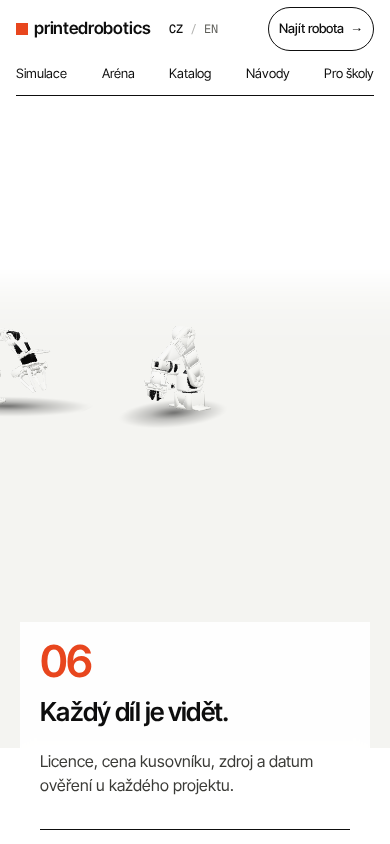
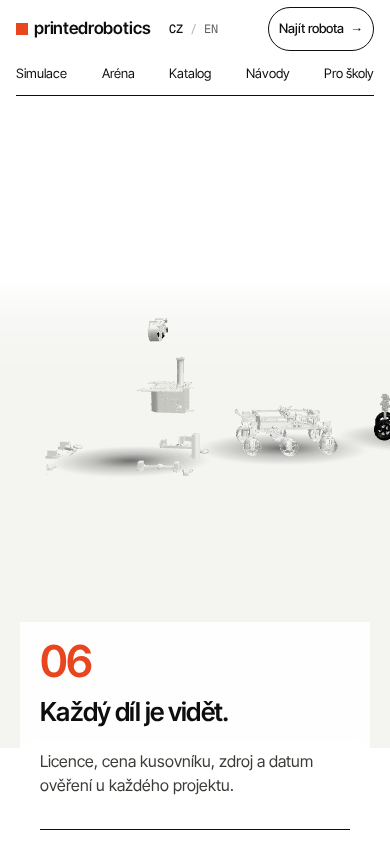
3d flythrough: crisp hard-surface look (creased normals, edges, shadows), tighter framing, phone explode fit, drop dead CSS

diff --git a/3d/fly.js b/3d/fly.js
@@ -2,6 +2,7 @@
 import * as THREE from 'three';
 import {GLTFLoader} from 'three/addons/loaders/GLTFLoader.js';
 import {MeshoptDecoder} from 'three/addons/libs/meshopt_decoder.module.js';
+import {toCreasedNormals, mergeVertices} from 'three/addons/utils/BufferGeometryUtils.js';
 import {RoomEnvironment} from 'three/addons/environments/RoomEnvironment.js';
 
 const Q = new URLSearchParams(location.search);
@@ -26,13 +27,20 @@ r.toneMapping = THREE.NeutralToneMapping; r.toneMappingExposure = 1.0;
 const s = new THREE.Scene();
 s.fog = new THREE.Fog(0xffffff, 9, 30);
 s.environment = new THREE.PMREMGenerator(r).fromScene(new RoomEnvironment(), .04).texture;
-s.environmentIntensity = .55;
-s.add(new THREE.HemisphereLight(0xffffff, 0xd9d9d3, .9));
-const key = new THREE.DirectionalLight(0xffffff, 1.5); key.position.set(4, 9, 6); s.add(key);
-const fill = new THREE.DirectionalLight(0xe8eeff, .5); fill.position.set(-6, 3, -4); s.add(fill);
+s.environmentIntensity = .38;
+s.add(new THREE.HemisphereLight(0xffffff, 0xd9d9d3, .35));
+const key = new THREE.DirectionalLight(0xffffff, 2.6); key.position.set(4, 9, 6); s.add(key, key.target);
+const SHADOWS = !mobile();
+if (SHADOWS) {
+  r.shadowMap.enabled = true; r.shadowMap.type = THREE.PCFSoftShadowMap; key.castShadow = true;
+  key.shadow.mapSize.set(2048, 2048); key.shadow.bias = -.0004; key.shadow.normalBias = .02;
+  Object.assign(key.shadow.camera, {left: -7, right: 7, top: 7, bottom: -7, near: .5, far: 30});
+}
+const fill = new THREE.DirectionalLight(0xe8eeff, .35); fill.position.set(-6, 3, -4); s.add(fill);
 const floor = new THREE.Mesh(new THREE.PlaneGeometry(400, 400),
   new THREE.MeshBasicMaterial({color: 0xf4f4f1, toneMapped: false}));
 floor.rotation.x = -Math.PI / 2; s.add(floor);
+if (SHADOWS) { const sf = new THREE.Mesh(new THREE.PlaneGeometry(400, 400), new THREE.ShadowMaterial({opacity: .16})); sf.rotation.x = -Math.PI / 2; sf.position.y = .001; sf.receiveShadow = true; s.add(sf); }
 // soft contact shadow texture
 const shTex = (() => {
   const c = document.createElement('canvas'); c.width = c.height = 128; const x = c.getContext('2d');
@@ -46,17 +54,34 @@ const cam = new THREE.PerspectiveCamera(30, 1, .05, 80);
 // ---------- models ----------
 const loader = new GLTFLoader().setMeshoptDecoder(MeshoptDecoder);
 const cache = {};
-function prep(gl) {
+const CREASE = 30 * Math.PI / 180, geoCache = new Map(), edgeMat = new THREE.LineBasicMaterial({color: 0x1a1a1a, transparent: true, opacity: .22});
+// hard-surface normals: computed once per source geometry, shared between meshes, original disposed
+function crisp(g) {
+  if (geoCache.has(g)) return geoCache.get(g);
+  let n = g;
+  try {
+    const tmp = new THREE.BufferGeometry(); tmp.setAttribute('position', g.attributes.position); if (g.index) tmp.setIndex(g.index);
+    n = mergeVertices(toCreasedNormals(tmp, CREASE), 1e-5);
+    if (n !== g) { n.groups = g.groups; g.dispose(); }
+  } catch (e) { n = g; }
+  geoCache.set(g, n); return n;
+}
+const idle = () => new Promise(res => (window.requestIdleCallback || setTimeout)(res));
+async function prep(gl) {
   const root = new THREE.Group(), m = gl.scene; root.add(m);
   const b = new THREE.Box3().setFromObject(m), sph = b.getBoundingSphere(new THREE.Sphere()), k = 1 / sph.radius;
   m.scale.multiplyScalar(k); m.position.sub(sph.center).multiplyScalar(k); m.updateMatrixWorld(true);
-  let mi = 0;
+  let mi = 0; const meshes = [];
+  m.traverse(o => { if (o.isMesh) meshes.push(o); });
+  for (let i = 0; i < meshes.length; i++) { const o = meshes[i]; o.geometry = crisp(o.geometry); o.castShadow = SHADOWS; if (i % 8 === 7) await idle(); }
   m.traverse(o => {
     if (!o.isMesh) return;
     const ar = [].concat(o.material).map(M => {
       M = M.clone();
-      if (M.color) { const h = {}; M.color.getHSL(h); if (h.l > .7) M.color.setHSL(h.h, h.s * .4, .78 + .1 * ((mi * 37) % 7) / 6); }
-      if ('roughness' in M) { M.roughness = Math.max(M.roughness, .55); M.metalness = Math.min(M.metalness, .15); }
+      let L = .5;
+      if (M.color) { const h = {}; M.color.getHSL(h); L = h.l; if (h.l > .7) M.color.setHSL(h.h, h.s * .4, .7 + .06 * ((mi * 37) % 7) / 6); }
+      if ('roughness' in M) { M.roughness = L < .25 ? .42 : .5; M.metalness = L < .25 ? .45 : .05; }
+      M.flatShading = false; M.needsUpdate = true;
       mi++; return M;
     });
     o.material = Array.isArray(o.material) ? ar : ar[0];
@@ -70,13 +95,24 @@ function prep(gl) {
     const wsc = o.parent.getWorldScale(new THREE.Vector3()).x;
     return {o, base: o.position.clone(), off: d.multiplyScalar(.6 / wsc)};
   });
+  root.userData.edges = () => {
+    if (mobile() || root.userData.e) return;
+    root.updateMatrixWorld(true); const inv = root.matrixWorld.clone().invert(), out = [], v = new THREE.Vector3(), M = new THREE.Matrix4();
+    for (const o of meshes) {
+      const eg = new THREE.EdgesGeometry(o.geometry, 35), p = eg.attributes.position; M.multiplyMatrices(inv, o.matrixWorld);
+      for (let i = 0; i < p.count; i++) { v.fromBufferAttribute(p, i).applyMatrix4(M); out.push(v.x, v.y, v.z); }
+      eg.dispose();
+    }
+    const g = new THREE.BufferGeometry(); g.setAttribute('position', new THREE.Float32BufferAttribute(out, 3));
+    root.add(root.userData.e = new THREE.LineSegments(g, edgeMat));
+  };
   return {root, parts};
 }
 export const loadModel = name => cache[name] ??= loader.loadAsync(`../models/${name}.glb`).then(prep);
 window.loadModel = loadModel;
 
 // ---------- showroom layout ----------
-const SCALE = .62, GAP = 1.55, STEP = 7;
+const SCALE = .62, GAP = 1.45, STEP = 6, EXPL = 5;
 const clusters = G.slice(0, 12).map((g, k) => ({
   g, k, c: new THREE.Vector3(k * STEP, 0, k % 2 ? -1.6 : 1.6),
   w: (g.models.length - 1) * GAP + 1.3
@@ -95,6 +131,7 @@ function place(sl, o) {
   const sh = new THREE.Mesh(new THREE.PlaneGeometry(1, 1), shMat);
   sh.rotation.x = -Math.PI / 2; sh.position.set(sl.x, .003, sl.z); sh.scale.set(sz.x * 1.35 + .2, sz.z * 1.35 + .2, 1);
   s.add(sh); sl.o = o; dirty = true;
+  if (!(sl.cl.k === EXPL && sl.j === 0)) o.root.userData.edges?.();
 }
 
 // ---------- camera keyframes ----------
@@ -104,14 +141,15 @@ function buildPath() {
   const mob = mobile(), P = [], T = [];
   clusters.forEach(cl => {
     const yaw = (cl.k % 2 ? -1 : 1) * .38;
-    const D = (Math.max(3.4, cl.w * 1.25 + 1.9)) * (mob ? 1.55 : 1);
-    const t = cl.c.clone().add(new THREE.Vector3(mob ? 0 : -(cl.w * .28 + .75), mob ? -.15 : .5, 0));
+    let D = (Math.max(3.2, cl.w * .95 + 1.5)) * (mob ? 1.5 : 1);
+    let t = cl.c.clone().add(new THREE.Vector3(mob ? 0 : -(cl.w * .24 + .7), mob ? -.15 : .45, 0));
+    if (mob && cl.k === EXPL) { const s0 = slots.find(x => x.cl === cl && x.j === 0); t = new THREE.Vector3(s0.x + .6, .3, s0.z); D = 10.5; }
     T.push(t); P.push(t.clone().add(new THREE.Vector3(Math.sin(yaw) * D, mob ? 1.9 : 1.35, Math.cos(yaw) * D)));
   });
   // final thesis: pull back over the whole showroom
   const mid = new THREE.Vector3((clusters.length - 1) * STEP / 2, 0, 0);
-  T.push(mid.clone().add(new THREE.Vector3(mob ? 0 : -4, 0, 0)));
-  P.push(mid.clone().add(new THREE.Vector3(0, mob ? 26 : 15, mob ? 34 : 24)));
+  T.push(mid.clone().add(new THREE.Vector3(mob ? 0 : -3.5, 0, 0)));
+  P.push(mid.clone().add(new THREE.Vector3(mob ? 0 : 2, mob ? 13 : 7.5, mob ? 24 : 15)));
   camCurve = new THREE.CatmullRomCurve3(P, false, 'centripetal');
   tgtCurve = new THREE.CatmullRomCurve3(T, false, 'centripetal');
 }
@@ -144,7 +182,6 @@ function scrollU() {
 // ---------- frame ----------
 let u = scrollU(), covered = false;
 const N = secs.length - 1;
-const EXPL = 5;                 // „Každý díl je vidět“
 const bar = document.getElementById('bar');
 function resize() {
   const w = innerWidth, h = innerHeight;
@@ -173,7 +210,7 @@ function step(dt) {
   if (sl?.o && Math.abs(e - lastE) > 1e-4) { for (const P of sl.o.parts) P.o.position.copy(P.base).addScaledVector(P.off, e * 1.1); lastE = e; dirty = true; }
   if (!(dirty || moving) || covered) return false;
   const t = Math.min(1, Math.max(0, u / N));
-  cam.position.copy(camCurve.getPoint(t)); const tg = tgtCurve.getPoint(t); cam.lookAt(tg); const dd = cam.position.distanceTo(tg); s.fog.near = dd + 3; s.fog.far = dd * 2.2 + 14;
+  cam.position.copy(camCurve.getPoint(t)); const tg = tgtCurve.getPoint(t); cam.lookAt(tg); const dd = cam.position.distanceTo(tg); if (SHADOWS) { key.target.position.copy(tg); key.position.copy(tg).add(new THREE.Vector3(4, 9, 6)); const ext = Math.min(18, dd * .6 + 3); Object.assign(key.shadow.camera, {left: -ext, right: ext, top: ext, bottom: -ext}); key.shadow.camera.updateProjectionMatrix(); } s.fog.near = dd + 3; s.fog.far = dd * 2.2 + 14;
   const t0 = performance.now(); r.render(s, cam); stats.ms += performance.now() - t0; stats.frames++;
   stats.tris = r.info.render.triangles; stats.calls = r.info.render.calls;
   dirty = false; return true;

diff --git a/3d/index.html b/3d/index.html
@@ -10,9 +10,7 @@
 
 #bar{position:fixed;left:0;top:0;height:3px;background:var(--accent);z-index:20}
 #hd{position:fixed;left:6vw;top:3vh;font-weight:800;z-index:15}#hd b{color:var(--accent)}
-#vis{position:fixed;right:0;top:0;width:52vw;height:100vh;z-index:1;transition:opacity .4s}
 #c{width:100%;height:100%;display:block;transition:filter .35s,opacity .35s}#c.blur{filter:blur(16px);opacity:.15}
-#rc{position:absolute;left:0;right:0;bottom:9vh;text-align:center;color:var(--mute);font-size:.9rem;transition:opacity .35s}#rc b{color:var(--ink);display:block;font-size:1rem}
 main{position:relative;z-index:2;width:44vw;padding-left:6vw}
 .t{min-height:92vh;display:flex;flex-direction:column;justify-content:center;max-width:34rem}
 .t .n{color:var(--accent);font:700 .8rem ui-monospace,monospace;letter-spacing:.1em}
@@ -26,35 +24,29 @@ main{position:relative;z-index:2;width:44vw;padding-left:6vw}
 .note{color:var(--mute);font-size:.8rem}#c2{flex:1.2;width:100%;height:70vh;min-width:0}
 .three-f{position:relative;z-index:5;background:var(--sand);padding:3rem 6vw;color:var(--mute);font-size:.8rem}.three-f pre{white-space:pre-wrap;font-size:.72rem;max-height:40vh;overflow:auto}
 @media (max-width:700px){
- #vis{z-index:3;width:100vw;height:46vh;background:var(--paper);box-shadow:0 10px 30px var(--paper)}#rc{bottom:1vh}#hd{font-size:.85rem;top:1.2vh}
  main{width:auto;padding:46vh 6vw 0}.t{min-height:60vh;justify-content:flex-start;padding-top:4vh}.t h2{font-size:1.8rem}
  #ag{flex-direction:column;align-items:stretch}#c2{height:48vh;flex:none}#steps{min-height:4.5rem}}
 .cats{display:grid;grid-template-columns:repeat(4,1fr);gap:.4rem;margin-top:1.2rem}.cat{display:block;padding:.5rem .6rem;border:1px solid var(--line);border-radius:10px;color:var(--ink);text-decoration:none;font-size:.78rem;line-height:1.2}.cat b{display:block;color:var(--accent);font-size:1.25rem}.cat:hover{border-color:var(--accent)}
 @media (max-width:700px){.cats{grid-template-columns:repeat(3,1fr)}}#rd{margin-top:.4rem;display:flex;gap:6px;justify-content:center}#rd i{width:7px;height:7px;border-radius:50%;background:var(--line);display:block;transition:.3s}#rd i.on{background:var(--accent);width:18px;border-radius:4px}
 #hd{background:#fff;padding:.3rem .6rem;border-radius:8px;left:calc(6vw - .6rem)}
-#vis{padding-top:0}
-@media (max-width:700px){#hd{top:.6vh}#vis{top:0}}
+
 /* Swiss grid: 8px spacing scale, 12 col desktop / 4 col mobile */
 :root{--hd:48px;--m:max(20px,4vw);--line:var(--line)}
 
 #bar{z-index:21}
 #hd{left:0;right:0;top:0;height:var(--hd);box-sizing:border-box;display:flex;align-items:center;padding:0 var(--m);border-radius:0;background:var(--paper);border-bottom:1px solid var(--line);font-size:15px;letter-spacing:-.01em}
-#vis{top:var(--hd);height:calc(100vh - var(--hd));width:50vw}
 main{width:calc(41.66vw - var(--m));padding-left:var(--m)}
 .t{min-height:calc(100vh - var(--hd));max-width:none;padding:var(--hd) 0 0;box-sizing:border-box}
 .t .n,#ag .t-n{font-family:inherit!important;font-weight:800!important;font-size:clamp(56px,7vw,112px)!important;line-height:.9!important;color:var(--accent)!important;letter-spacing:-.045em;margin-bottom:24px}
 .t h2,.agl h2{font-weight:700;letter-spacing:-.025em;line-height:1.05;margin:0 0 16px}
 .t p{max-width:36ch;font-size:18px;line-height:1.5}
 .nums{gap:32px;margin-top:32px}.nums>div{border-top:1px solid var(--accent);padding-top:8px;font-size:13px;color:var(--mute)}.nums b{font-size:40px;letter-spacing:-.03em}
-#rc{text-align:left;left:32px;right:32px;bottom:32px;font-size:12px;letter-spacing:.04em;text-transform:uppercase;border-top:1px solid var(--line);padding-top:8px}#rc b{font-size:15px;text-transform:none;letter-spacing:-.01em;margin-bottom:2px}
 #rd{justify-content:flex-start;margin-top:8px}#rd i,#rd i.on{border-radius:0;height:3px;width:16px}#rd i.on{width:32px}
 .cta a,#prompt,.st,.cat{border-radius:0!important}
 .cats{gap:0;border-top:1px solid var(--line);border-left:1px solid var(--line)}.cat{border:0;border-right:1px solid var(--line);border-bottom:1px solid var(--line);padding:8px}
 #ag{padding:calc(var(--hd) + 48px) var(--m) 48px;scroll-margin-top:var(--hd)}#ag .agl{scroll-margin-top:calc(var(--hd) + 16px)}
 .three-f{padding:48px var(--m)}.three-f pre{max-height:12em}
 @media (max-width:700px){
- #vis{top:var(--hd);width:100vw;height:75vw;box-shadow:none;border-bottom:1px solid var(--line)}
- #rc{left:var(--m);right:var(--m);bottom:8px;border:0;padding:0}#rc b{font-size:14px}
  main{width:auto;padding:calc(var(--hd) + 75vw) var(--m) 0}
  .t{min-height:calc(100svh - var(--hd) - 75vw);justify-content:flex-start;padding:32px 0 48px;border-bottom:1px solid var(--line);scroll-margin-top:calc(var(--hd) + 75vw);scroll-snap-align:start}
  html{scroll-snap-type:y proximity}
@@ -62,7 +54,7 @@ main{width:calc(41.66vw - var(--m));padding-left:var(--m)}
  .nums{gap:16px}.nums b{font-size:32px}
  #ag{padding:calc(var(--hd) + 32px) var(--m) 48px}#c2{height:75vw}
  .cats{grid-template-columns:repeat(2,1fr)}}
-@media (prefers-reduced-motion:reduce){#c,#rc,#vis{transition:none!important}#c.blur{filter:none;opacity:1}html{scroll-behavior:auto}}
+@media (prefers-reduced-motion:reduce){#c{transition:none!important}#c.blur{filter:none;opacity:1}html{scroll-behavior:auto}}
 .three-f details{margin-top:16px}.three-f summary{cursor:pointer;color:var(--accent);font-weight:700}
 
 /* site style integration */
@@ -71,7 +63,6 @@ main{width:calc(41.66vw - var(--m));padding-left:var(--m)}
 .t h2,.agl h2{font-weight:600}
 .nums>div{border-top-color:var(--ink)}
 .cta a{background:var(--ink);color:#fff;font-weight:500;text-decoration:none;min-height:56px;display:inline-flex;align-items:center;padding:0 20px}.cta a.o{background:#fff;color:var(--ink);border:1px solid var(--ink)}
-#rc,#rk{font-family:var(--mono)}#rc b{font-family:var(--sans);color:var(--ink)}
 #prompt{border-color:var(--ink)}#ag{border-color:var(--ink)}
 .three-f{margin-top:0;padding-top:24px;border-top:1px solid var(--ink)}
 
